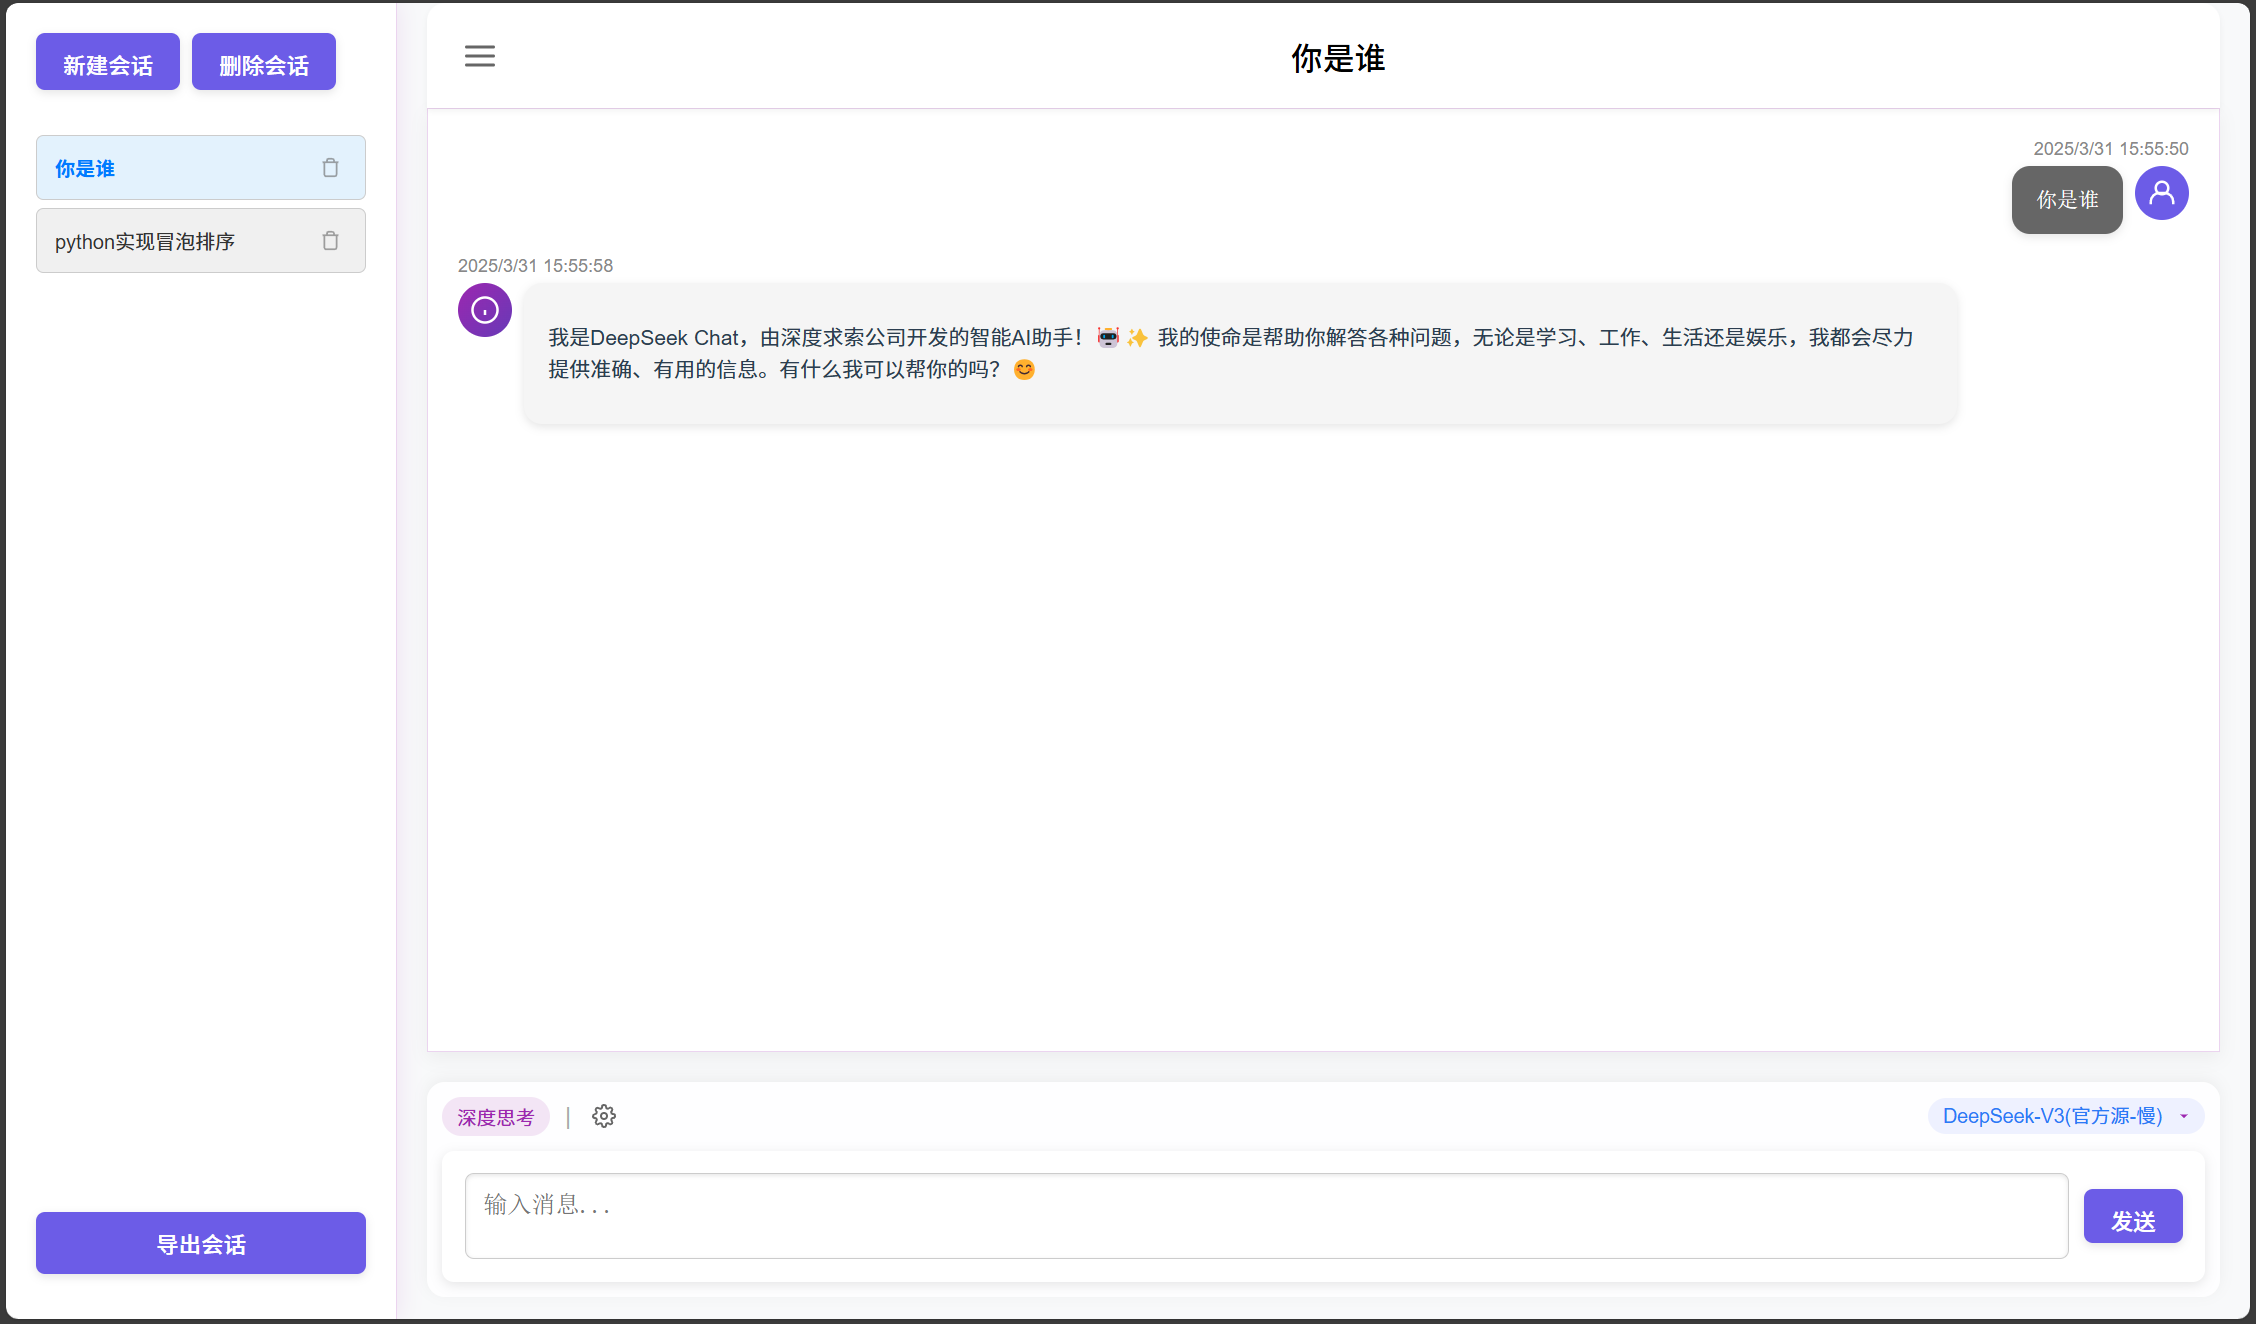
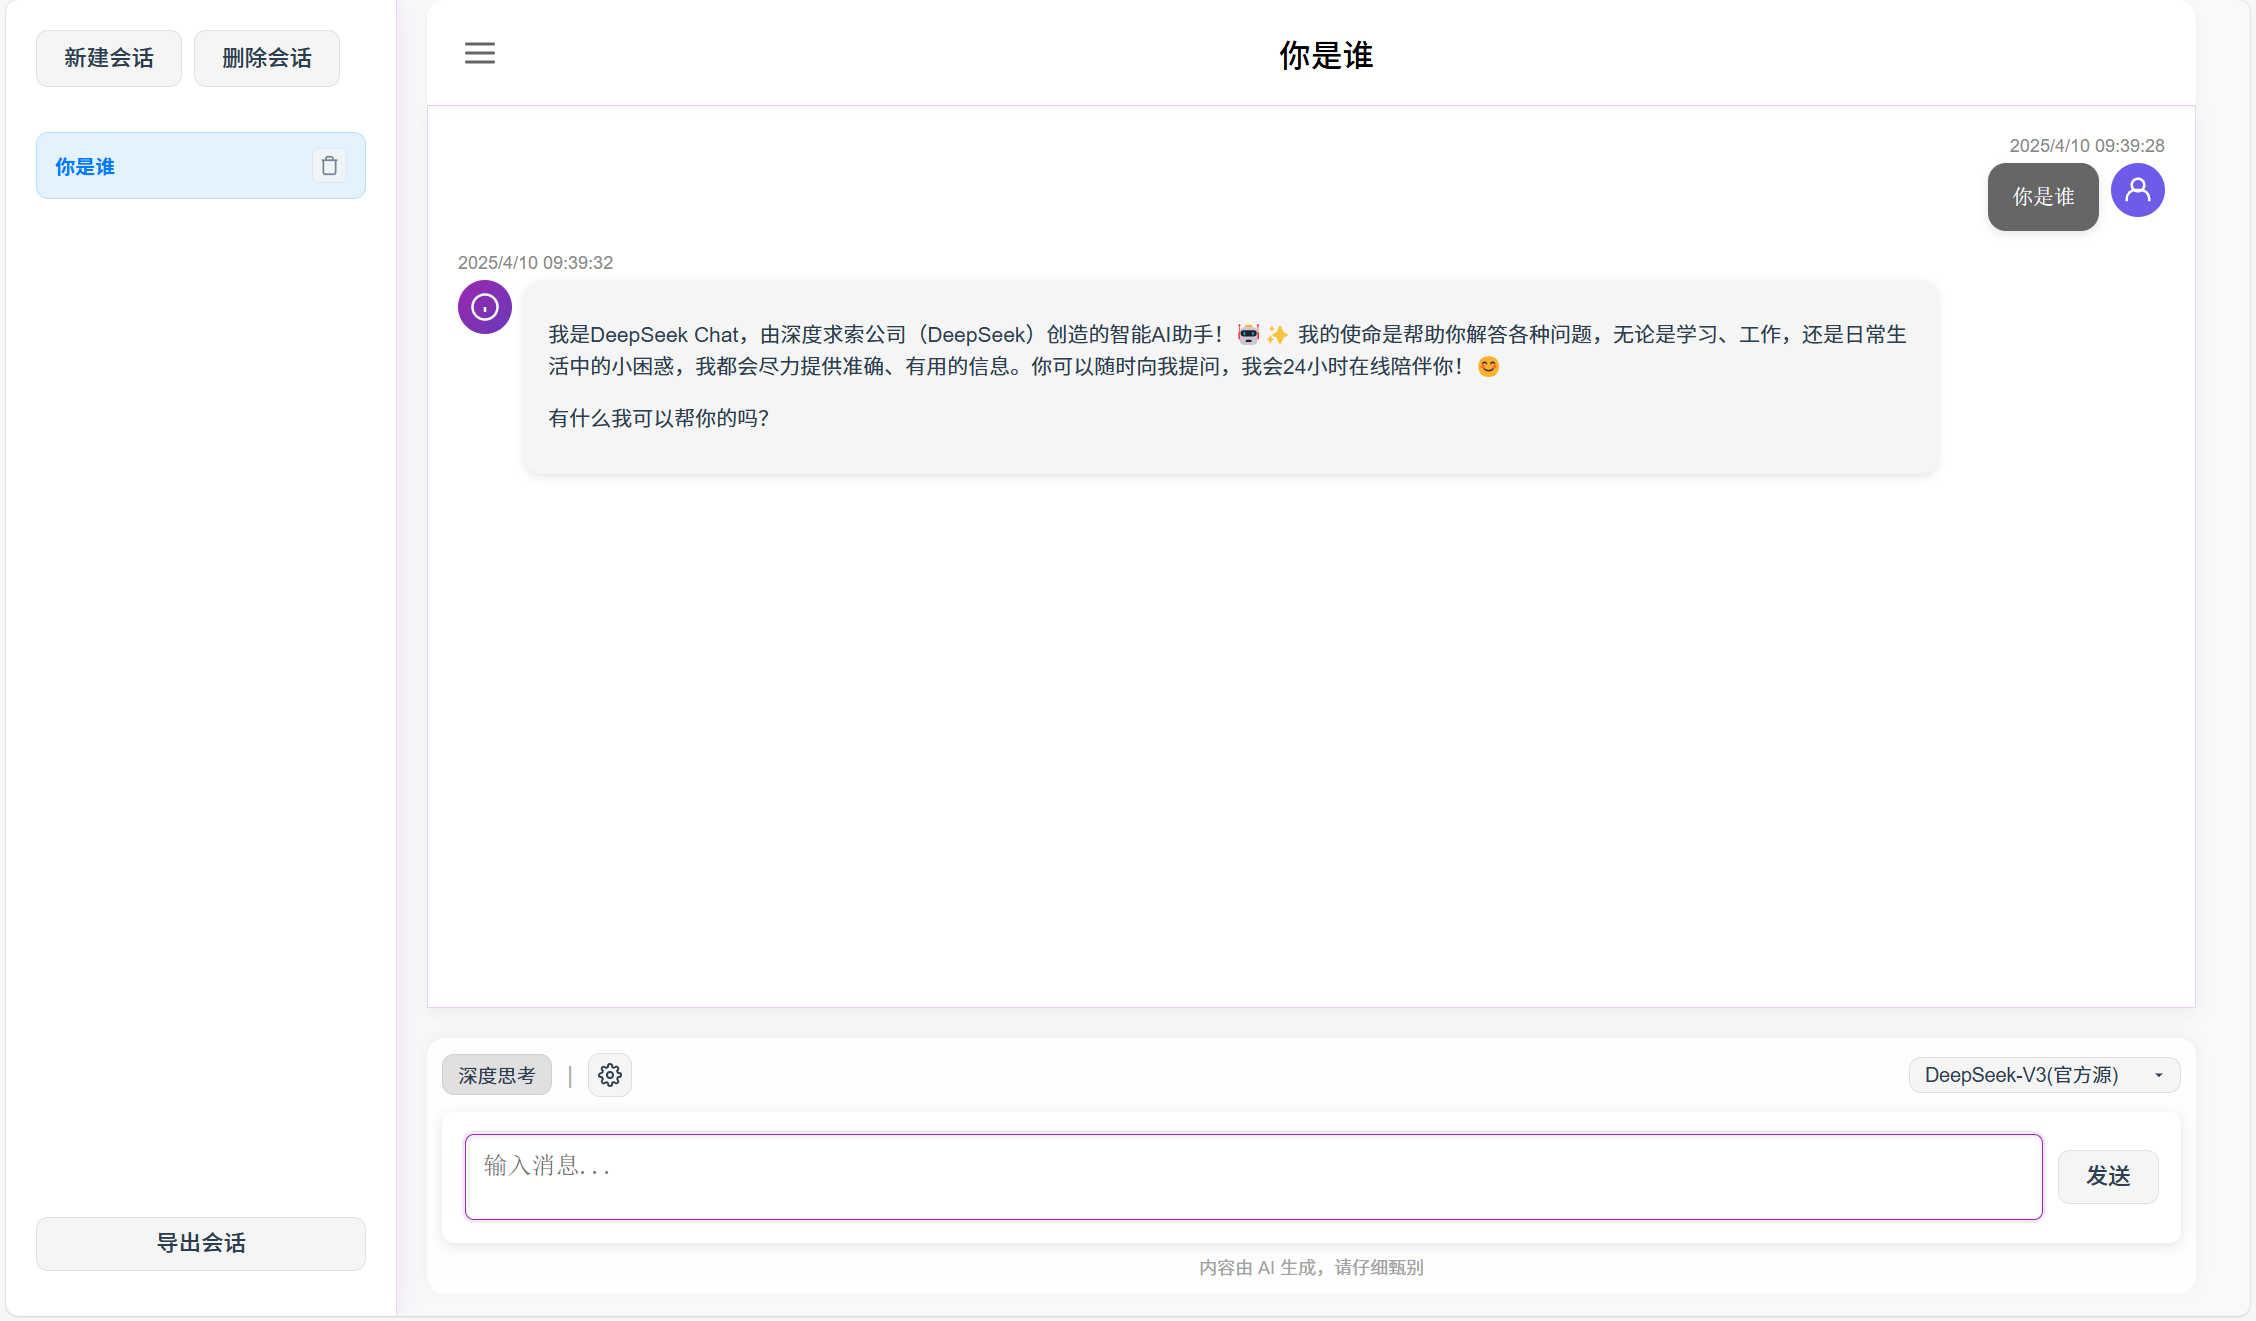
readme

diff --git a/README.md b/README.md
@@ -7,7 +7,7 @@ Chatai With Newbot 是一个基于 Spring Boot 的聊天机器人项目，集成
 ![img.png](img.png)![img_1.png](img_1.png)
 ## 主要功能
 - **多模型支持**：支持 DeepSeek 和 通义千问等多种 AI 模型。
-- **会话管理**：用户可以新建会话、切换会话、删除会话。
+- **会话管理**：用户可以新建会话、切换会话、删除会话、导出会话。
 - **深度思考模式**：用户可以选择启用深度思考模式以获得更详细的回答。
 - **导出会话**：用户可以将所有会话记录导出为本地文件。
 - **响应式设计**：支持桌面和移动设备，提供良好的用户体验。
